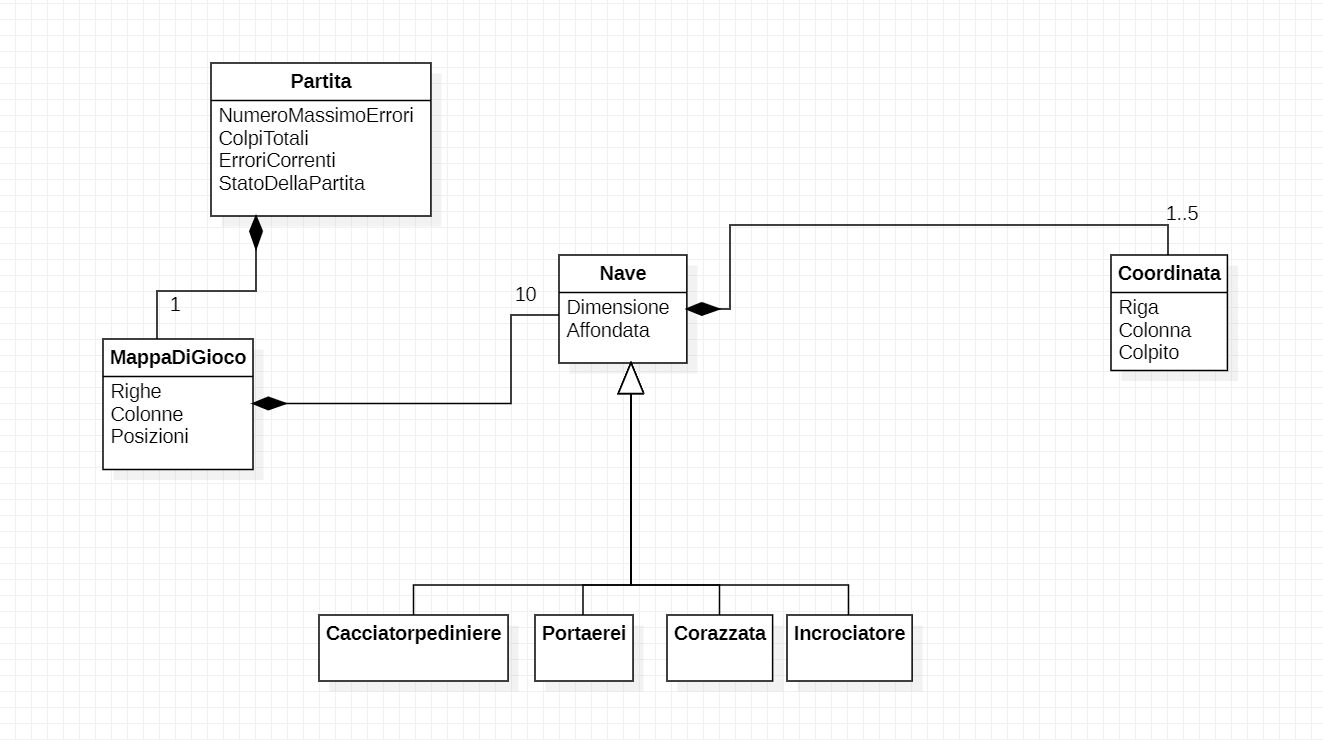
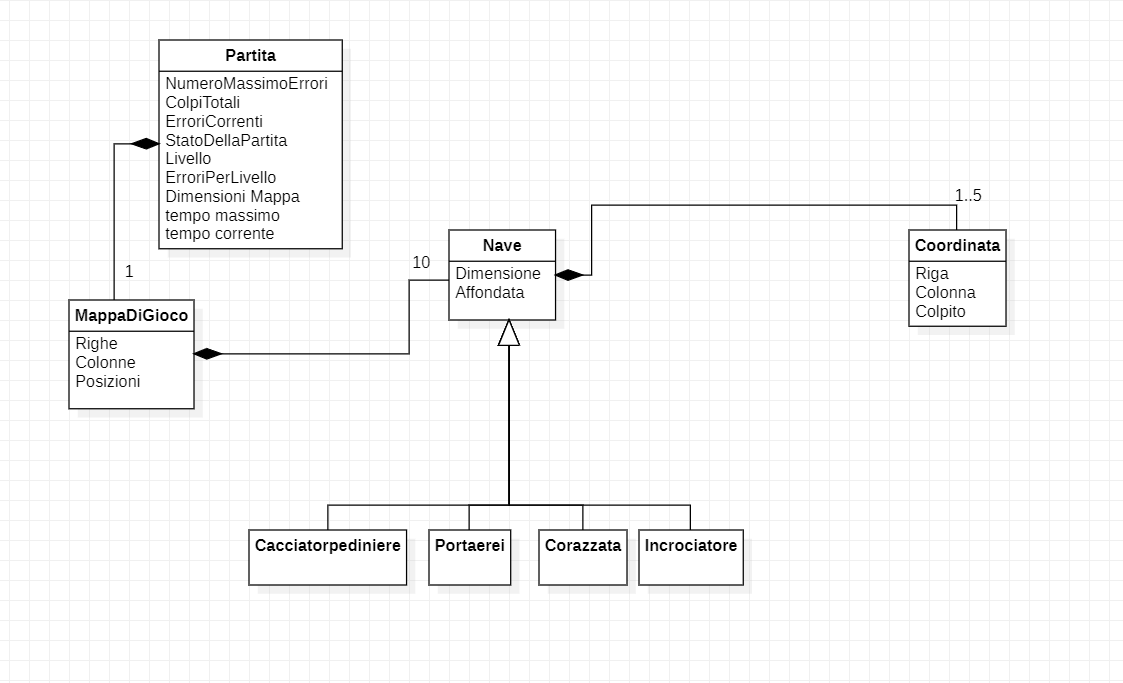
Aggiunta la sezione OO Design nel file Report.md e relativo punto dell'indice, aggiornato il modello di dominio

diff --git a/docs/Report.md b/docs/Report.md
@@ -7,6 +7,8 @@
   - 3.1) REQUISITI FUNZIONALI
   - 3.2) REQUISITI NON FUNZIONALI
 - 4)SYSTEM DESIGN
+- 5)OO DESIGN
+   - 5.2) DIAGRAMMA DI SEQUENZA
 - 6)RIEPILOGO DEI TEST
 - 7)MANUALE UTENTE
 - 8)PROCESSO DI SVILUPPO E ORGANIZZAZIONE DEL LAVORO
@@ -36,7 +38,7 @@ Il modello di dominio è un diagramma delle classi con prospettive concettuali, 
 
 ![ModelloDominio](./img/ModelloDominio.PNG)
 
-L'entità fondamentale del gioco è la Partita. Una partita si compone di diversi attributi: il numero massimo di errori concessi al giocatore (NumeroMassimoErrori), il numero di tentativi totali effettuati (ColpiTotali), il numero di tentativi falliti (ErroriCorrenti) e uno stato che indica se la partita è effettivamente in corso (StatoDellaPartita). Una Partita si compone anche di una Mappa di Gioco, concetto rappresentante lo spazio dove si trovano le navi da colpire e di conseguenza le posizioni colpibili dal giocatore. Essa si compone di un certo numero di righe, un numero di colonne e una serie di posizioni dove può esserci una nave, l'acqua o un colpo andato a segno/mancato. Una mappa, quindi, si compone di tante navi, in particolare di 10 navi Una nave è caratterizzata dalla sua dimensione, uno stato che afferma se questa sia affondata o meno e una serie di coordinate (da 1 a 5 coordinate possibili) che identificano la sua posizione sulla mappa. Una coordinata è caratterizzata da un numero di riga, un numero di colonna e uno stato che afferma se in quella casella la nave sia stata colpita o meno. Il concetto di nave ha inoltre 4 specializzazioni, rappresentati i 4 tipi di nave disponibili nel gioco: Cacciatorpediniere, Portaerei, Corazzata, Incrociatore.
+L'entità fondamentale del gioco è la Partita. Una partita si compone di diversi attributi: il numero massimo di errori concessi al giocatore (NumeroMassimoErrori), il numero di tentativi totali effettuati (ColpiTotali), il numero di tentativi falliti (ErroriCorrenti), uno stato che indica se la partita è effettivamente in corso (StatoDellaPartita), le dimensioni massime della mappa, il tempo massimo per l’esecuzione delle partita, il tempo trascorso a partire dall’inizio della partita, il livello di difficoltà scelto e il numero di tentativi falliti per ogni possibile livello di difficoltà. Una Partita si compone anche di una Mappa di Gioco, concetto rappresentante lo spazio dove si trovano le navi da colpire e di conseguenza le posizioni colpibili dal giocatore. Essa si compone di un certo numero di righe, un numero di colonne e una serie di posizioni dove può esserci una nave, l'acqua o un colpo andato a segno/mancato. Una mappa, quindi, si compone di tante navi, in particolare di 10 navi Una nave è caratterizzata dalla sua dimensione, uno stato che afferma se questa sia affondata o meno e una serie di coordinate (da 1 a 5 coordinate possibili) che identificano la sua posizione sulla mappa. Una coordinata è caratterizzata da un numero di riga, un numero di colonna e uno stato che afferma se in quella casella la nave sia stata colpita o meno. Il concetto di nave ha inoltre 4 specializzazioni, rappresentati i 4 tipi di nave disponibili nel gioco: Cacciatorpediniere, Portaerei, Corazzata, Incrociatore.
 
 ---
 ## 3)REQUISITI SPECIFICI
@@ -205,15 +207,28 @@ Criteri di accettazione:
 ----
 
 ## 4)SYSTEM DESIGN
-
+Di seguito viene mostrato il diagramma dei package, ovvero uno schema raffigurante l’organizzazione delle directory del codice e le loro dipendenze. Con dipendenza tra package (indicata da una freccia tratteggiata) si intende la situazione per cui le classi di un package hanno bisogno delle informazioni contenute in un altro package per funzionare
 
 ![DiagrammaPackage](./img/DiagrammaPackage.PNG)
 
 ---
+## 5)OO DESIGN
 
-## 5)RIEPILOGO DEI TEST
-Tutti i casi di test sono stati eseguiti sono della categoria BlackBox.
-I casi di test sulle classi boundary non sono stati eseguiti perché essi dovrebbero controllare ogni singolo inserimento dell’utente, cosa che i casi di test automatici non possono prevedere.
+
+### 5.2) DIAGRAMMA DI SEQUENZA
+
+![Diagrammasequenzagioca](./img/Diagrammasequenzagioca.png)
+
+![Diagrammacolpisci](./img/Diagrammacolpisci.png)
+
+---
+## 6)RIEPILOGO DEI TEST
+Tutti i casi di test che sono stati eseguiti sono della categoria BlackBox.
+I casi di test sulle classi boundary non sono stati eseguiti perché essi dovrebbe controllare ogni singolo inserimento dell’utente, cosa che i casi di test automatici non possono prevedere.
+Le classi su cui non sono stati eseguiti i test sono le seguenti:
+1) Il package eccezioni con le sue classi: CloneException, NumeroCoordinateException e PosizioneException
+2) Il package UI con le sue classi: Comando e Stampa
+
 
 Casi di test per il package app:
 Sono stati generati casi di test automatici in JUnit per il package app contenente una sola  classe: 
@@ -267,13 +282,6 @@ Sono stati generati casi di test automatici in JUnit per il package utility che 
 - TabellaTest; I test su TabellaTest riguardano l’impostazione della dimensione della griglia di gioco.
 
 - TempoTest; I test su TempoTest riguardano la corretta restituzione del tempo impostato.
-
-
-
-
-
-
-
 
 
 ---
